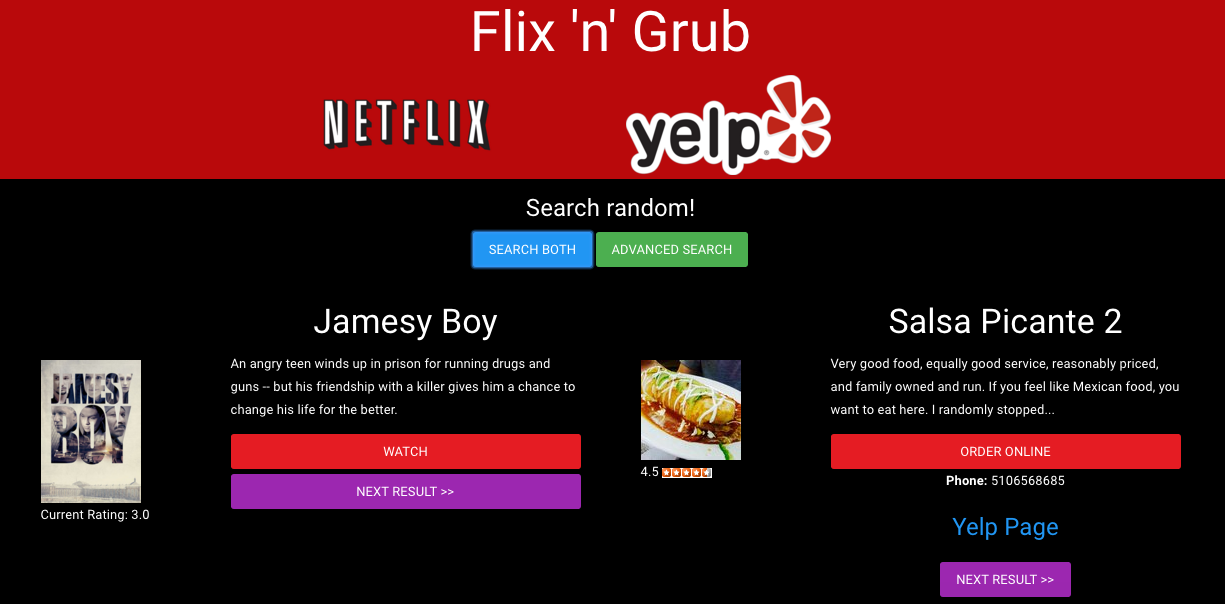
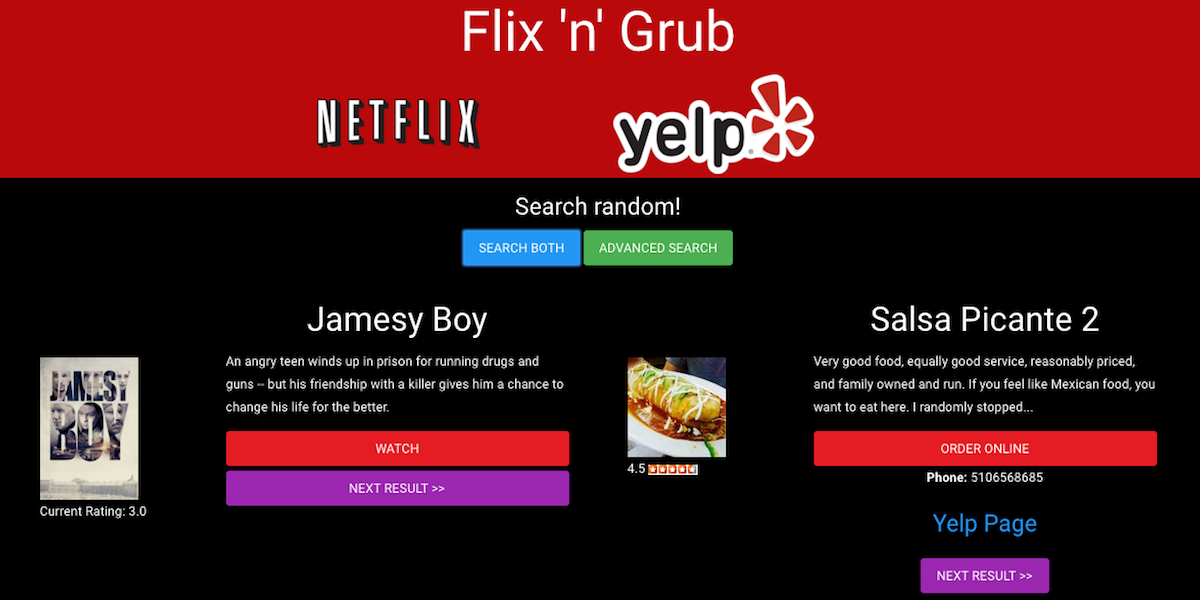
img resize + typos

diff --git a/client/js/controllers/main.js b/client/js/controllers/main.js
@@ -27,7 +27,7 @@ myPage.controller('UsersController', function ($scope, $location, $log, $uibModa
       } ,
       FlixnGrub: {
           title: "FlixnGrub",
-          img: "../img/FlixnGrub/FlixNgrub2.png",
+          img: "../img/FlixnGrub/FlixnGrub2.png",
           description: "Randomizer service to find a randomized delivery service and movie to solve the eternal mystery dinner and a movie ",
           tech: [
               {pic:"../img/logos/angularyes.png", caption: "AngularJS"},
@@ -93,7 +93,7 @@ myPage.controller('UsersController', function ($scope, $location, $log, $uibModa
         description: "iOS/Android app that allows users search for properties in the UK area, see pictures, prices, and descriptions of property for sale",
         tech: [
             {pic: "../img/logos/nodeLogo2.png", caption: "NodeJS"},
-            {pic: "../img/logos/ReactLogo1.svg", caption: "React-Native"},
+            {pic: "../img/logos/reactLogo1.svg", caption: "React-Native"},
              {pic: "../img/logos/nestoria.png", caption: "Nestoria API"}
 
         ],
@@ -114,9 +114,9 @@ myPage.controller('UsersController', function ($scope, $location, $log, $uibModa
         description: "Python app which allows users to search a song and GIF's to accompany for an audio visual experience",
         tech: [
             {pic: "../img/logos/pythonLogo.png", caption: "Python"},
-            {pic: "../img/logos/mySQL-icon.png", caption: "mySQL"},
+            {pic: "../img/logos/MySQL-icon.png", caption: "mySQL"},
             {pic: "../img/logos/flask2.png", caption: "Flask"},
-            {pic: "../img/logos/materializeLogo.png", caption: "MaterializeCSS"},
+            {pic: "../img/logos/MaterializeLogo.png", caption: "MaterializeCSS"},
             {pic: "../img/logos/jqueryLogo.png", caption: "jQuery"}
         ],
         slides: [

diff --git a/client/index.html b/client/index.html
@@ -200,7 +200,7 @@
                                     <i class="fa fa-plus fa-3x"></i>
                                 </div>
                             </div>
-                            <img src="/img/FlixnGrub/Flixngrub2.png"  class="img-responsive modalLink" alt="">
+                            <img src="../img/FlixnGrub/FlixnGrub2.png"  class="img-responsive modalLink" alt="">
                         </a>
                         <div class="portfolio-caption">
                             <h4>FlixnGrub</h4>
@@ -373,7 +373,7 @@
                                     <a href="https://www.github.com/cdg510"><img class="img-responsive techImg " src="/img/logos/github_white.png" /  /> </a>
                                 </li>
                                 <li class="list-item">
-                                    <a href="https://www.linkedin.com/christiandavidgonzalez"><img class="img-responsive  techImg" src="/img/logos/linkedIn3.png" / > </a>
+                                    <a href="https://www.linkedin.com/in/christiandavidgonzalez"><img class="img-responsive  techImg" src="/img/logos/linkedIn3.png" / > </a>
                                 </li>
                             </ul>
 
